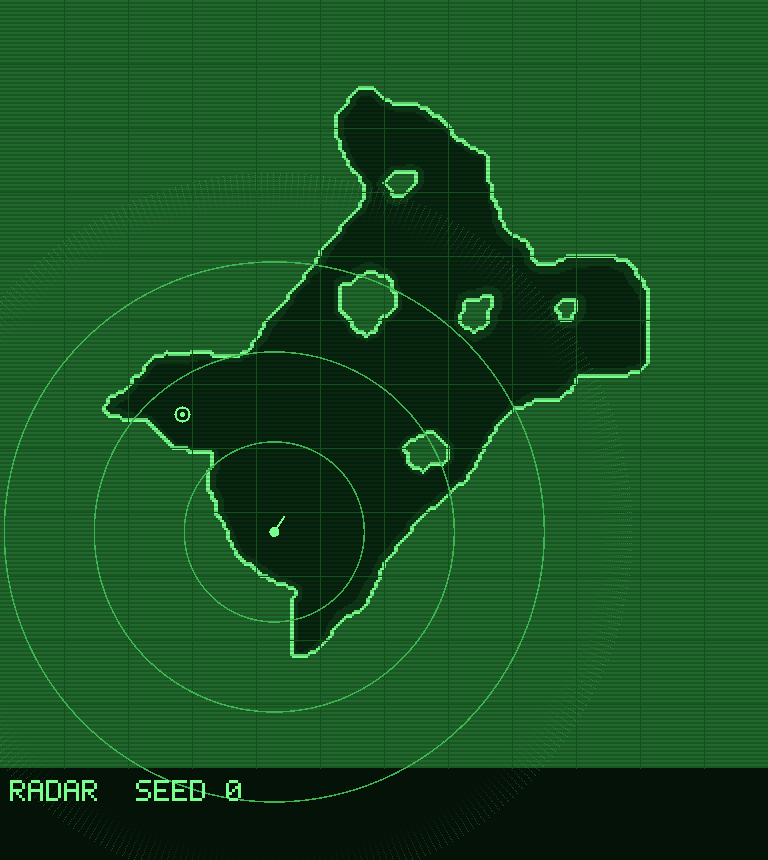
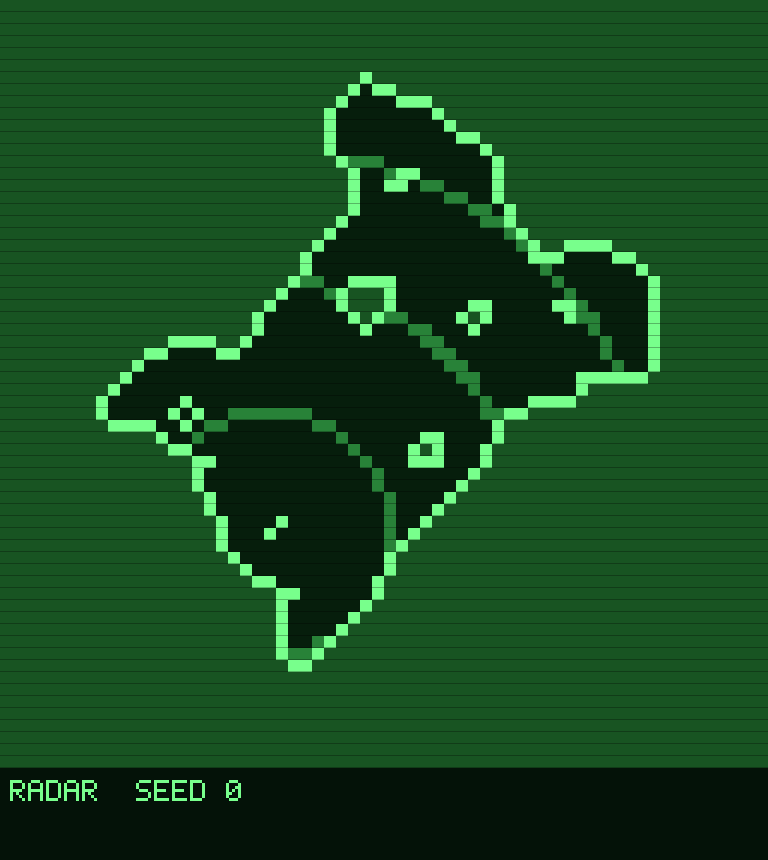
Burt Lake: the first map's name on screen (string, glossary, test); a lower-fidelity radar preview (64-cell grid, four flat greens); two break rows refreshed after the Gallery merge

diff --git a/tools/maps/preview.py b/tools/maps/preview.py
@@ -275,40 +275,76 @@ def radar_colour(h, kind, heights, px, py):
 
 
 def radar(m, out):
+    """The radar at low fidelity: the map judged in BLOCK-pixel cells, four
+    flat greens, a blocky outline, rings and blips snapped to the cells."""
     import math
 
-    pal = {"panel": (4, 18, 8), "colour": radar_colour}
-    cv = ground_layer(m, pal)
-    size = m["n"] * PX
-    green = (120, 255, 140)
-    for k in range(1, 12):
-        cv.line(k * size / 12, 0, k * size / 12, size, (20, 80, 30), 1)
-        cv.line(0, k * size / 12, size, k * size / 12, (20, 80, 30), 1)
+    n, cell = m["n"], m["cell_mm"]
+    size = n * PX
+    cells = size // BLOCK
+    cv = Canvas(size, size + 92, (4, 18, 8))
+    world = n * cell
+
+    def water_at(cx, cy):
+        # the block's centre, in map cells (y north)
+        fx = (cx + 0.5) * BLOCK / PX - 0.5
+        fy = (size - (cy + 0.5) * BLOCK) / PX - 0.5
+        return sample(m, fx, fy) < 0
+
+    grid = [[water_at(cx, cy) for cx in range(cells)] for cy in range(cells)]
+    land, water, edge, dim = (24, 84, 34), (6, 30, 12), (120, 255, 140), (40, 130, 56)
+    colours = {}
+    for cy in range(cells):
+        for cx in range(cells):
+            w = grid[cy][cx]
+            shore = any(
+                0 <= cx + dx < cells and 0 <= cy + dy < cells and grid[cy + dy][cx + dx] != w
+                for dx, dy in ((1, 0), (-1, 0), (0, 1), (0, -1))
+            )
+            colours[cx, cy] = edge if (shore and not w) else (water if w else land)
+
     sx, sy = to_px(m, m["spawn"]["at"])
-    for r in (90, 180, 270):
-        cv.ring(sx, sy, r, (60, 180, 80), 1.5)
-    # the ping's sweep
-    for k in range(0, 360, 1):
-        a = math.radians(k)
-        for d in range(320, 360, 2):
-            cv.put(int(sx + math.cos(a) * d), int(sy + math.sin(a) * d), green, 0.25 * (d - 320) / 40)
+    scx, scy = int(sx // BLOCK), int(sy // BLOCK)
+    # ping rings every quarter of the map, snapped to cells, drawn on water only
+    for r in (cells // 6, cells // 3, cells // 2):
+        for cy in range(cells):
+            for cx in range(cells):
+                if abs(round(math.hypot(cx - scx, cy - scy)) - r) == 0 and colours[cx, cy] == water:
+                    colours[cx, cy] = dim
+
+    def blip(px, py, c):
+        colours[int(px // BLOCK), int(py // BLOCK)] = c
+
     sp = m["spawn"]
     a = sp["heading"] / 65536 * 2 * math.pi
-    cv.disc(sx, sy, 5, green)
-    cv.line(sx, sy, sx + math.cos(a) * 18, sy - math.sin(a) * 18, green, 2)
+    blip(sx, sy, edge)
+    blip(sx + math.cos(a) * BLOCK * 1.4, sy - math.sin(a) * BLOCK * 1.4, edge)
     b = m["buoys"][0]["buoy"]
     if b:
         bx, by = to_px(m, b)
-        cv.ring(bx, by, 7, green, 2)
-        cv.disc(bx, by, 2.5, green)
-    cv.text(10, size + 12, f"RADAR  SEED {m['seed']}", green, 3)
+        for dx, dy in ((0, -1), (0, 1), (-1, 0), (1, 0)):
+            blip(bx + dx * BLOCK, by + dy * BLOCK, edge)
+
+    for (cx, cy), c in colours.items():
+        for y in range(cy * BLOCK, min(size, (cy + 1) * BLOCK)):
+            shade = 0.72 if y == (cy + 1) * BLOCK - 1 else 1.0
+            for x in range(cx * BLOCK, min(size, (cx + 1) * BLOCK)):
+                cv.put(x, y, tuple(int(v * shade) for v in c))
+    cv.text(10, size + 12, f"RADAR  SEED {m['seed']}", edge, 3)
     png(out, cv.w, cv.h, cv.pix)
+
+
+# Radar cell size in pixels: the person asked for a lower-fidelity radar.
+BLOCK = 12
 
 
 def main(argv):
     draw = cartoon
     if argv and argv[0] == "--radar":
         draw, argv = radar, argv[1:]
+        if argv and argv[0].startswith("--block="):
+            global BLOCK
+            BLOCK, argv = int(argv[0].split("=")[1]), argv[1:]
     if argv and argv[0] == "--json":
         maps = json.loads(Path(argv[1]).read_text())
         out = Path(argv[2])

diff --git a/crates/core/src/map/mod.rs b/crates/core/src/map/mod.rs
@@ -72,6 +72,14 @@ impl Setting {
         }
     }
 
+    /// The strings key of the setting's name on screen (the person named the
+    /// first one Burt Lake, 2026-10-17).
+    pub fn name_key(self) -> &'static str {
+        match self {
+            Setting::MichiganLake => "map.burt_lake",
+        }
+    }
+
     pub fn from_id(id: &str) -> Option<Setting> {
         Setting::ALL.into_iter().find(|s| s.id() == id)
     }

diff --git a/crates/core/src/map/tests.rs b/crates/core/src/map/tests.rs
@@ -356,3 +356,11 @@ fn the_buoy_is_about_as_far_by_boat_from_every_player() {
     let d = s.dist(b);
     assert!((130_000..=165_000).contains(&d), "{d}");
 }
+
+#[test]
+fn every_setting_names_a_string_key() {
+    for setting in Setting::ALL {
+        assert!(crate::strings::KEYS.contains(&setting.name_key()), "{:?}", setting);
+    }
+    assert_eq!(Setting::MichiganLake.name_key(), "map.burt_lake");
+}

diff --git a/crates/core/src/strings.rs b/crates/core/src/strings.rs
@@ -29,6 +29,7 @@ pub const KEYS: &[&str] = &[
     "play.placeholder",
     "pause.heading",
     "menu.gallery",
+    "map.burt_lake",
     "gallery.heading",
     "gallery.model",
     "gallery.show",

diff --git a/GLOSSARY.md b/GLOSSARY.md
@@ -7,6 +7,12 @@ Write each entry as a `### Term` heading, then one or two plain sentences, then 
 <!--
 An example entry. It sits inside this comment, so it does not count.
 
+### Burt Lake
+
+The first map: a northern lake with pine and birch shores, small wooded islands and reeds in the coves, in medium fog. Each match on it plays one of its checked layouts.
+
+Not: Michigan Lake, level, course
+
 ### Spout
 
 Where slush comes out. Each line has up to {line.spouts} spouts.
